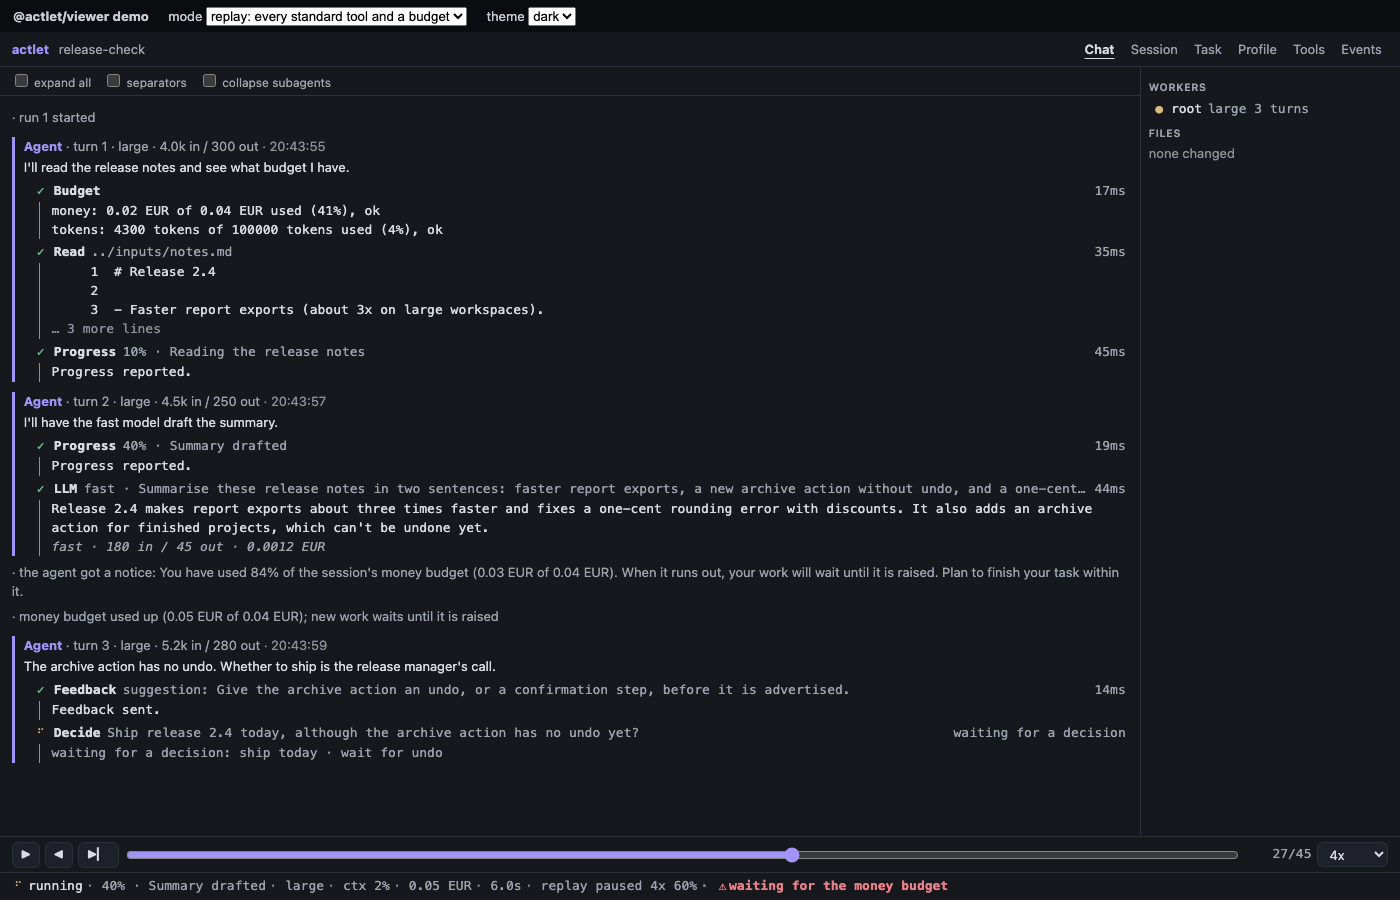
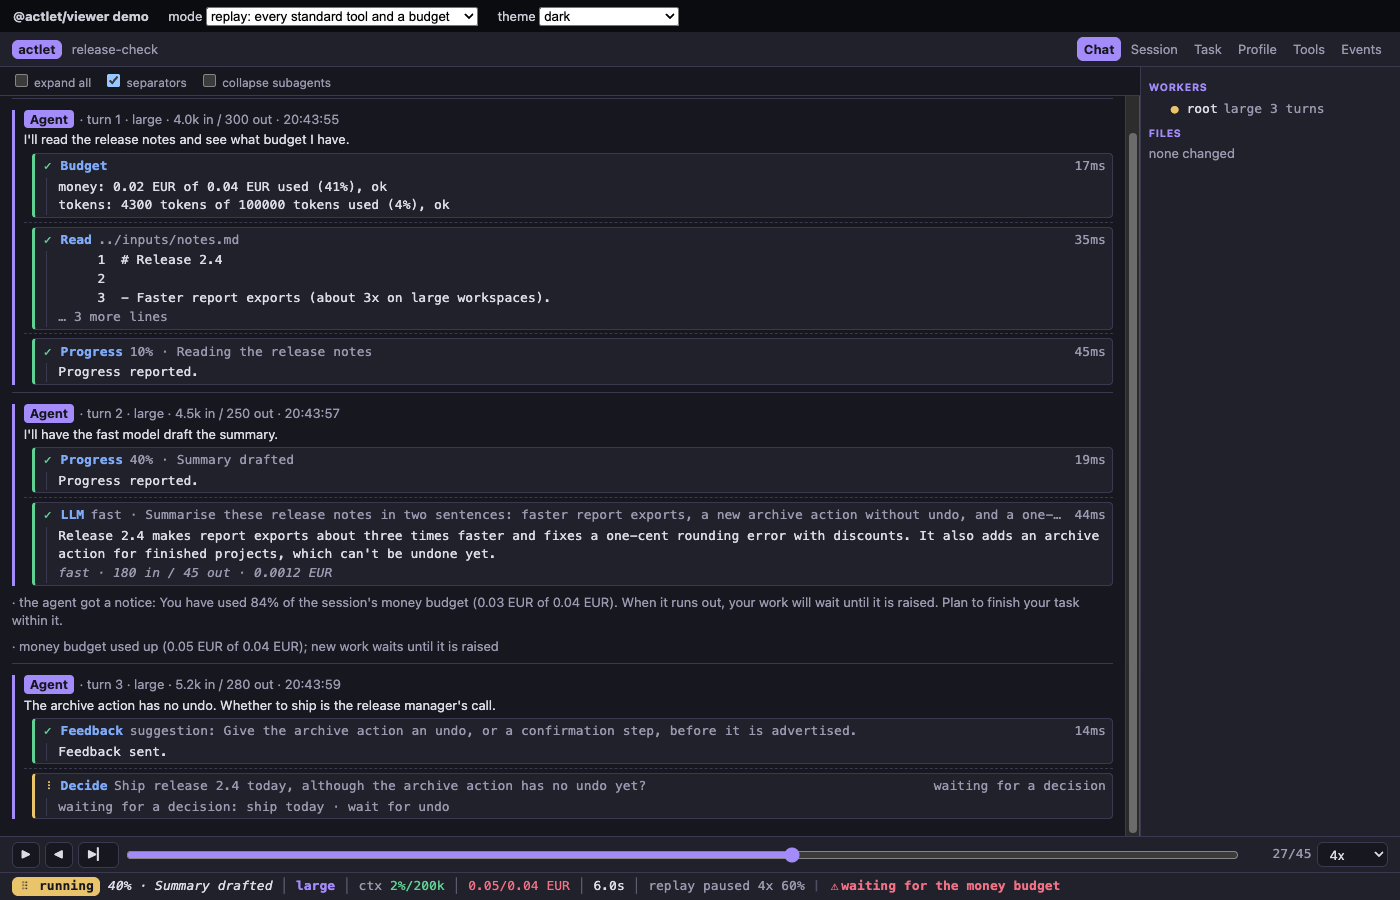
docs: describe themes, and refresh the screenshots
The README covers the theme prop, the built-in themes, the theme file
format and its tokens, and the status line's totals. AGENTS.md says
where colours come from and how the built-in themes stay Actlet's own.
The screenshots show the new look.

diff --git a/README.md b/README.md
@@ -126,7 +126,7 @@ lines.
 | -------------------------------------------------------------------------------- | ---------------------------------------------------------------------------------------- |
 | `TurnStream`                                                                     | The conversation: turns, tool blocks, nested subagents, notes, system lines, auto-follow |
 | `ToolBlock`                                                                      | One tool call with its result or diff; collapsible                                       |
-| `StatusLine`                                                                     | State, model, context %, cost, elapsed time, connection                                  |
+| `StatusLine`                                                                     | State pill, model, context %/window, cost and time against budgets, connection           |
 | `Sidebar`                                                                        | Workers (click to show one alone) and changed files with `+N −M`                         |
 | `FileViewer`                                                                     | The read-only file popup                                                                 |
 | `Tabs`, `SessionPanel`, `TaskPanel`, `ProfilePanel`, `ToolsPanel`, `EventsPanel` | The other views                                                                          |
@@ -163,15 +163,54 @@ replay, `Space` or `k` plays and pauses, `←` and `→` step one event (ten wit
 speed. Asking to stop focuses Cancel first.
 
 Icons, regions and lists have roles and labels. The status line isn't a live region, because it ticks every second;
-instead, state changes are announced. Text colours meet WCAG AA (4.5:1) in both themes, and the spinner stops for
+instead, state changes are announced. Text colours meet WCAG AA (4.5:1) in the built-in themes, and the spinner stops for
 readers who ask for less motion. jsx-a11y lints the components, axe runs over every view in the tests, and a test walks
 through the viewer by keyboard alone.
 
-### Theming
+### Themes
 
-`theme="dark" | "light" | "auto"` (the default follows the system setting). Every colour and font is a CSS custom property
-on `.actlet-viewer`, such as `--actlet-bg`, `--actlet-fg`, `--actlet-agent`, `--actlet-mono` and `--actlet-size`, so you
-can restyle the viewer without touching its CSS. See `src/styles.css`.
+The viewer takes its colours from a theme in the format of Actlet's terminal viewer, so one theme file styles both
+(`actlet attach -theme ./ocean.yaml` and the web page):
+
+```tsx
+import { parse } from "yaml"; // or JSON.parse for a .json theme
+
+<ActivityViewer events={events} />                                // "auto": dark or light, as the system is
+<ActivityViewer events={events} theme="light" />                  // a built-in theme: dark, light or plain
+<ActivityViewer events={events} theme={parse(oceanYaml)} />       // a theme file, parsed by you
+```
+
+- **Built-in themes:** `dark`, `light` and `plain`. `plain` has no colours of its own. It uses the page's own, with
+  emphasis by bold, underline and reverse video. `auto`, the default, picks dark or light by the reader's system
+  setting, and plain when they ask for more contrast or force their own colours. The built-in themes are Actlet's own
+  files, shipped as `@actlet/viewer/themes/{dark,light,plain}.yaml`. Every text colour in them meets WCAG AA (4.5:1)
+  on the background, the panels and a selected row.
+- **Theme files:** YAML or JSON, which you read and parse. The viewer checks a theme as strictly as the terminal viewer
+  does. Unknown fields, tokens and attributes are errors, as are colours that aren't `#rrggbb`, `#rgb`, `"0"` to
+  `"255"` or `none`. A theme that isn't valid leaves the viewer dark, and the status line says why. `parseTheme()`
+  checks one up front and throws a `ThemeError`.
+
+```yaml
+name: ocean
+base: dark # dark (the default), light or plain: the tokens left out come from it
+colors:
+  accent: "#4FD1C5"
+  background: none # the page's own background
+  key: "33" # an ANSI colour number, 0 to 255, as the xterm palette has it
+emphasis:
+  key: [bold] # bold, italic, underline or reverse; replaces the base's emphasis for the token
+```
+
+The tokens are `background`, `panel` (the header, sidebar, status line, tool calls and code), `selection`, `border`,
+`text`, `muted`, `faint` (decoration only, such as separators), `accent` (the title, the active tab, headings and the
+worker shown), the speakers `agent`, `subagent` and `operator`, the states `ok`, `error` and `warning`, `attach`, the
+diff's `added`, `removed` and `hunk`, and the syntax colours `keyword`, `string`, `number`, `comment`, `key`, `function`
+and `punctuation`. The web viewer has no attach badge, so it doesn't use `attach`.
+
+Each token is a CSS custom property on `.actlet-viewer`, `--actlet-<token>`, so a stylesheet can also restyle the viewer.
+The fonts are `--actlet-font`, `--actlet-mono` and `--actlet-size`. The demo's "a theme file" example edits a theme live.
+
+![The ocean theme file, edited in the demo](docs/theme-file.png)
 
 ### Untrusted content
 
@@ -190,7 +229,7 @@ Development needs Node 24, pnpm 10 and, for `pnpm generate`, `protoc`.
 
 ```sh
 pnpm install
-pnpm dev             # the demo page; ?mode=replay|standard|digest|fork|live|websocket|sse|jsonl|synthetic, ?theme=light, ?speed=8, ?at=27, ?tab=session
+pnpm dev             # the demo page; ?mode=replay|standard|digest|fork|live|websocket|sse|jsonl|themed|synthetic, ?theme=light|plain|ocean, ?speed=8, ?at=27, ?tab=session
 pnpm test            # vitest
 pnpm lint            # eslint (with jsx-a11y) + prettier --check
 pnpm typecheck
@@ -199,7 +238,7 @@ pnpm generate        # regenerate src/gen from ../actlet/proto (PROTO_DIR=… to
 pnpm bench           # the 20,000-event numbers above, in headless Chrome
 pnpm check:examples  # the integration examples end to end, in headless Chrome
 pnpm smoke           # pack, install the tarball in a fresh Vite app, type-check and build it
-pnpm parity:go       # strict parity with the Go view model on every fixture
+pnpm parity:go       # strict parity with the Go view model on every fixture, and the theme files Actlet's own
 pnpm check           # build, typecheck, lint, test and parity:go
 ```
 
@@ -209,9 +248,9 @@ library. It also installs quickly, and `packageManager` in `package.json` pins i
 ### Packaging
 
 `pnpm build` writes ES modules to `dist/`, one file per module, so bundlers keep only what an app uses. Declarations sit
-next to them, and the stylesheet is `dist/viewer.css`. The exports map has `.`, `./core`, `./styles.css` and
-`./package.json`. React 18 or 19 is the only peer dependency, and `@bufbuild/protobuf` the only dependency.
-`pnpm pack` packs `dist/`, the README and `package.json`.
+next to them, and the stylesheet is `dist/viewer.css`. The exports map has `.`, `./core`, `./styles.css`, `./themes/*`
+and `./package.json`. React 18 or 19 is the only peer dependency, and `@bufbuild/protobuf` the only dependency.
+`pnpm pack` packs `dist/`, `themes/`, the README and `package.json`.
 
 ### Parity with the Go view model
 
@@ -222,7 +261,7 @@ on every fixture, strictly:
 - **The binary:** it builds `actlet-cli` from a snapshot of the commit in `.actlet-commit` of `../actlet`, leaving that
   repository as it is. `ACTLET_CLI=<binary>`, `ACTLET_REPO` and `ACTLET_COMMIT` change that.
 - **What it does:** it dumps each `fixtures/*.jsonl` with Go, and lists every path where the dump differs from this
-  library's fold.
+  library's fold. It also checks that `themes/*.yaml` are byte for byte the built-in themes at that commit.
 - **Without Go:** with no Go toolchain or Actlet repository it says it skipped, and exits 0, unless `REQUIRE_PARITY=1`.
 
 `pnpm check` runs everything: build, typecheck, lint, test and `parity:go`. For one pair of files, run

diff --git a/AGENTS.md b/AGENTS.md
@@ -18,7 +18,12 @@ covers working on the code.
 - **Generated code** in `src/gen/` comes from Actlet's gateway contract via `pnpm generate`. Don't edit it by hand.
 - **Nothing in `core` imports React.** `pnpm smoke` checks that a core-only bundle has none.
 - **Accessibility is tested.** New controls need a keyboard path and labels. `test/a11y.test.tsx` runs axe, a keyboard
-  walkthrough, and the theme's contrast. Colours go in `src/styles.css` as tokens that meet 4.5:1.
+  walkthrough, and the built-in themes' contrast (4.5:1).
+- **Colours come from themes in the terminal viewer's format.** The stylesheet uses only the theme's tokens
+  (`--actlet-<token>`, with `-weight`, `-style` and `-line` for emphasis), and `faint` only for decoration. The
+  built-in themes are Actlet's `themes/*.yaml`, copied byte for byte (`pnpm parity:go` checks them) and held as data in
+  `src/view/theme.ts`. `scripts/theme-css.mjs` writes the stylesheet's theme blocks from that data. Change a built-in
+  theme in Actlet first.
 - **Long sessions stay cheap.** Don't hold every event, render every item or recompute per event what can be computed
   per render. `test/scale.test.tsx` and `pnpm bench` measure it.
 - The terminal viewer is the reference for look and wording: turns grouped, tool calls with their results, the compact
@@ -32,13 +37,16 @@ src/
   lib.ts             the build's entry: index plus the stylesheet
   events.ts          decoding events from Protobuf JSON
   commands.ts        building commands and tracking their outcomes
-  view/              the session view: fold (session.ts), sanitize, paths, formatting, highlighting, view-state JSON
+  view/              the session view: fold (session.ts), sanitize, paths, formatting, highlighting, themes,
+                     view-state JSON
   replay/player.ts   playback over a fed array, with time passed in
   react/             components and hooks
-  styles.css         theming through CSS custom properties
+  styles.css         the look, from the theme's tokens as CSS custom properties
   gen/               generated from actlet/gateway/v0/gateway.proto
-demo/                the dev page (pnpm dev): replay, live, integration examples with mock servers, a synthetic session
-scripts/             generate, record and export fixtures, bench, examples check, smoke test, parity
+demo/                the dev page (pnpm dev): replay, live, integration examples with mock servers, a theme file, a
+                     synthetic session
+scripts/             generate, record and export fixtures, bench, examples check, smoke test, parity, theme CSS
+themes/              Actlet's built-in themes, dark, light and plain, byte for byte
 fixtures/            demo.jsonl (Actlet's demo), standard.jsonl (every standard tool), digest.jsonl (a skill and a
                      compaction) and fork.jsonl (the digest forked from a checkpoint), each with its folded state
                      (*.view.json); the scenarios in standard/ and digest/
